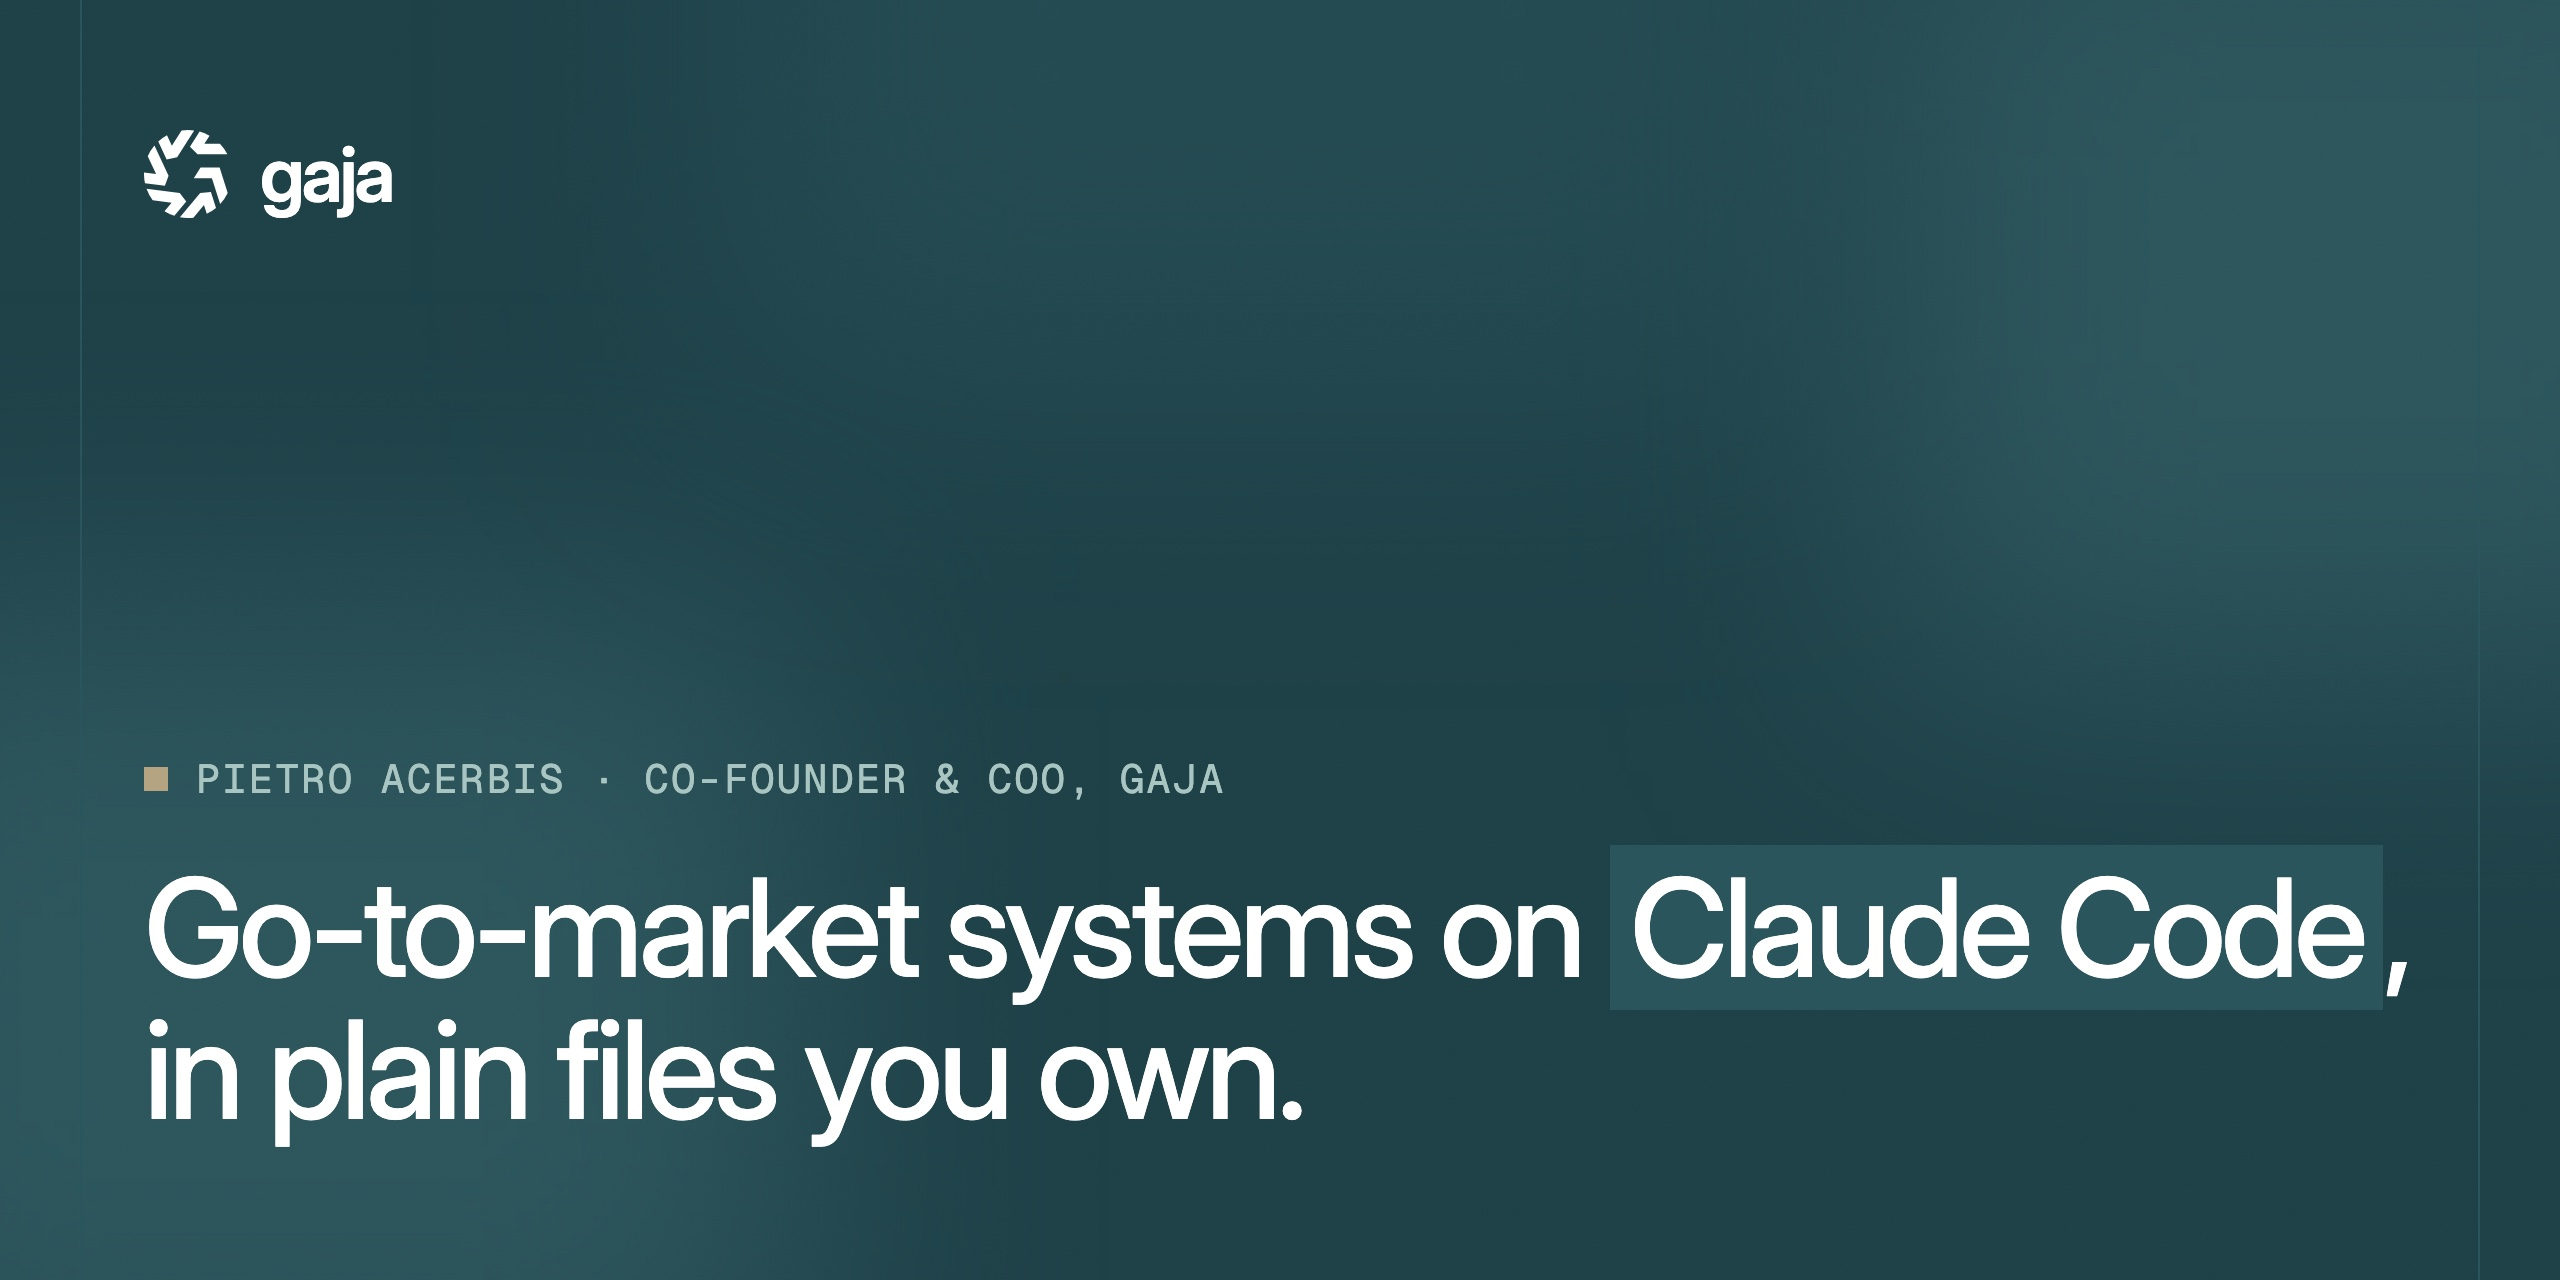
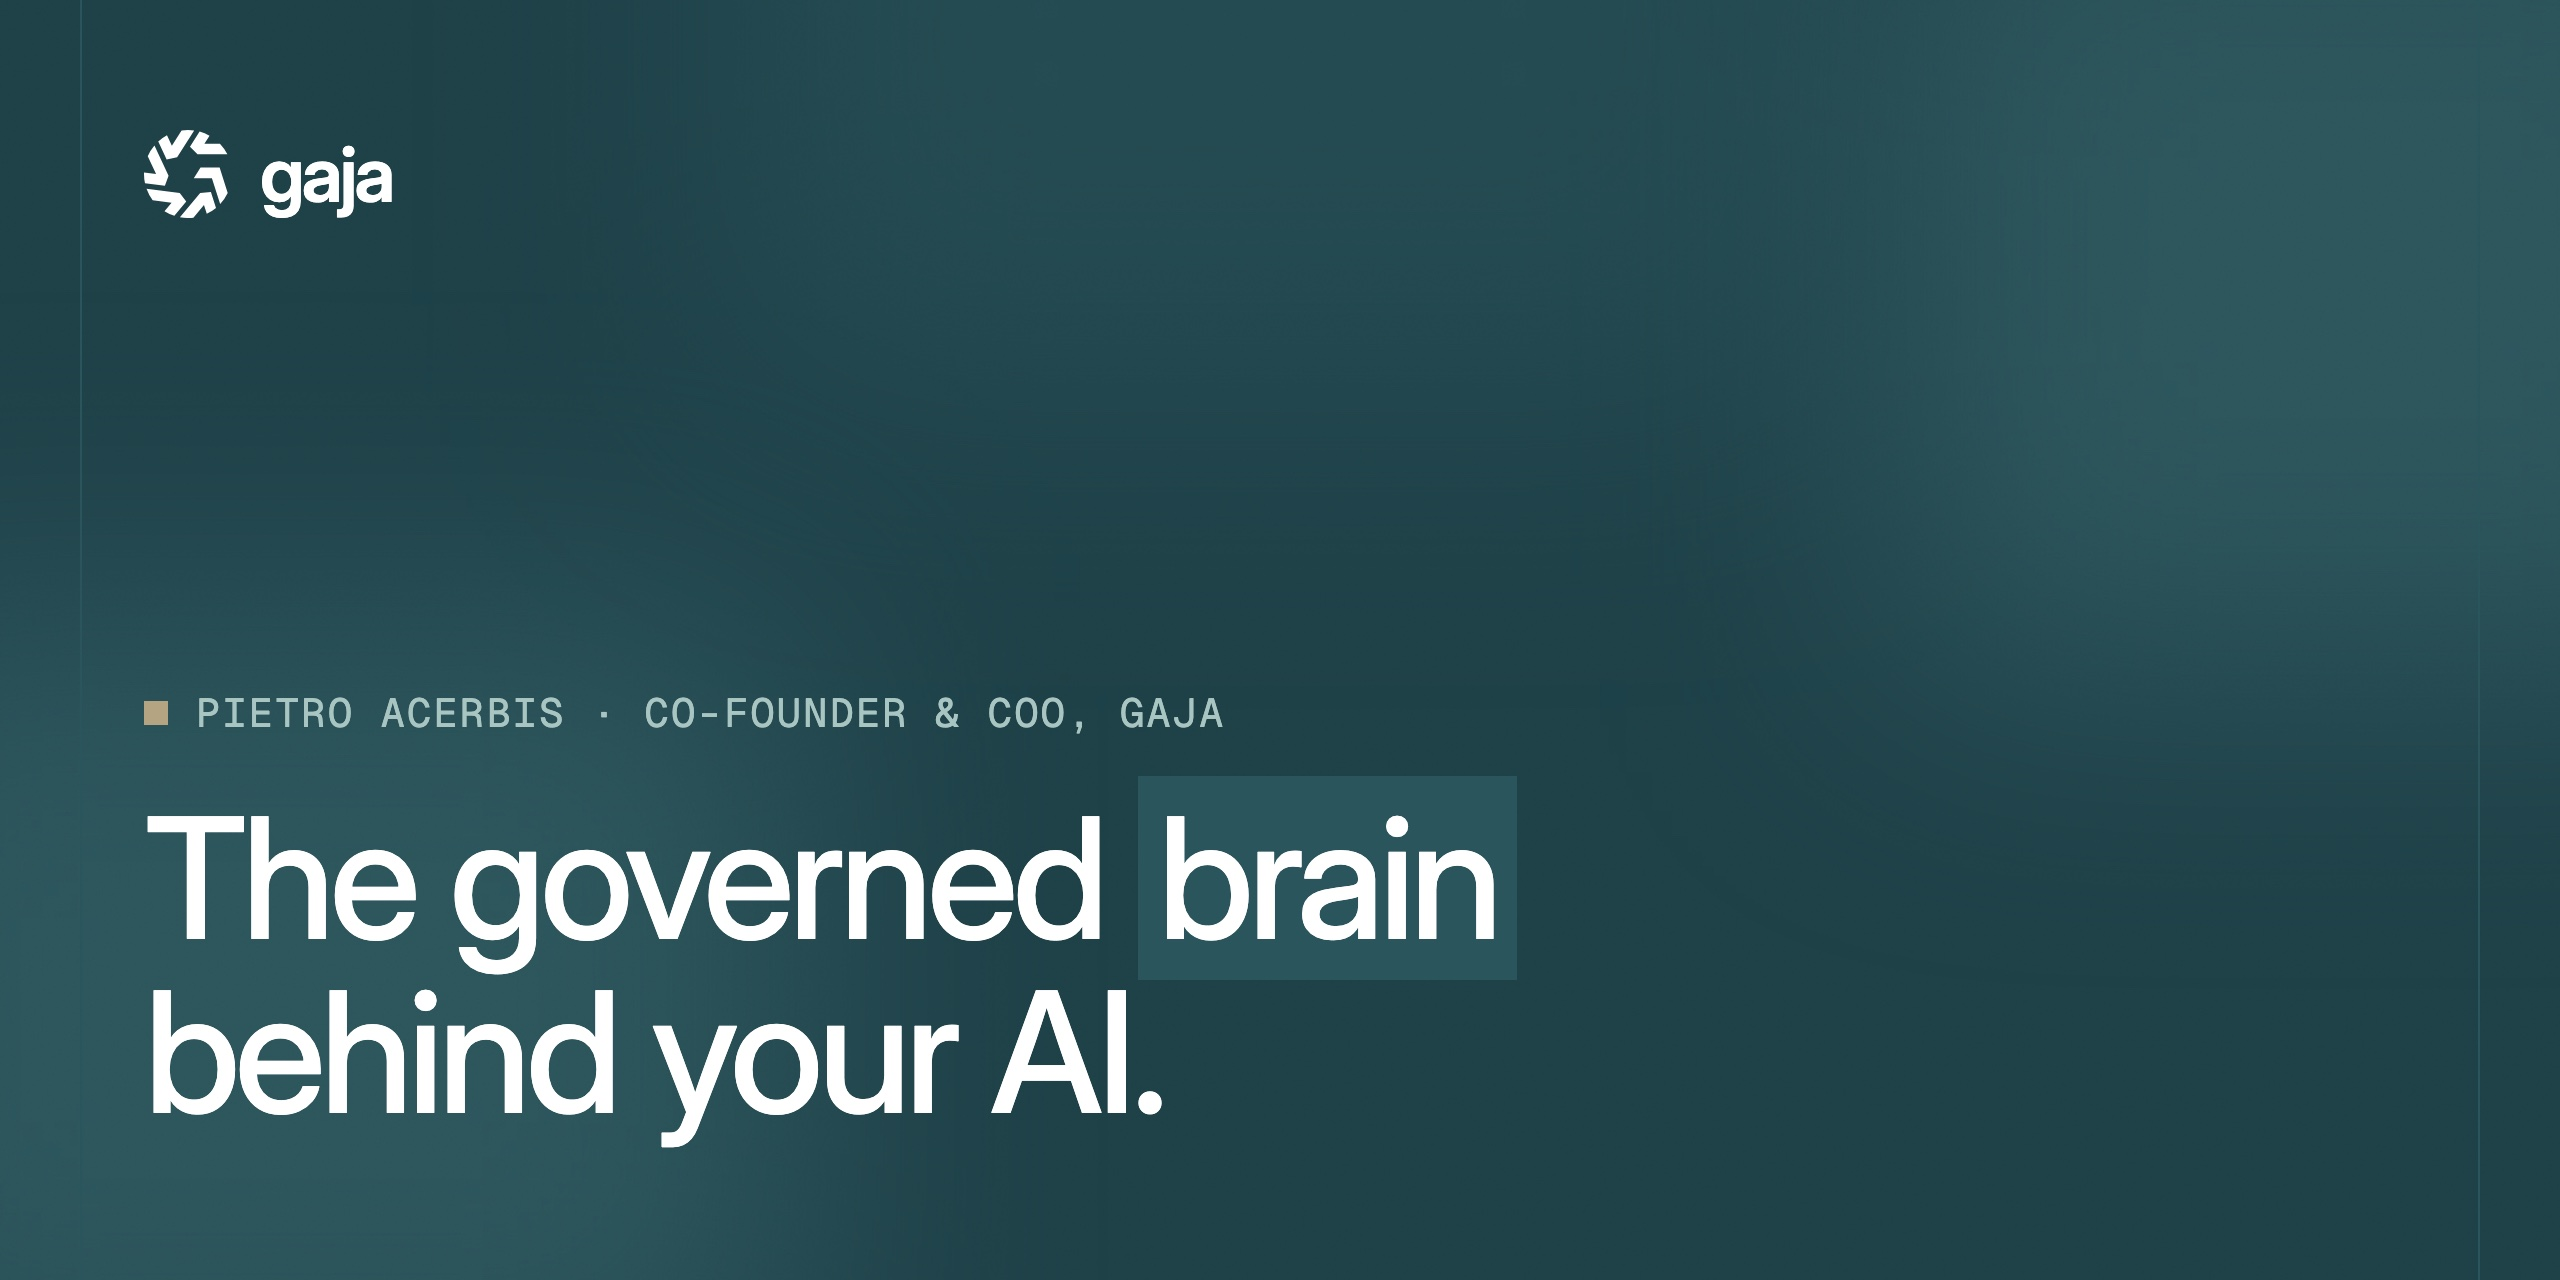
Profile: the intro on context and the brain, the cover on gaja's tagline, the numbers and the dated line out

diff --git a/README.md b/README.md
@@ -1,14 +1,14 @@
-![Pietro Acerbis, co-founder of gaja: go-to-market systems on Claude Code, in plain files you own](.github/cover.jpg)
+![Pietro Acerbis, co-founder and COO of gaja, the governed brain behind your AI](.github/cover.jpg)
 
 # Pietro Acerbis
 
-### Go-to-market systems on Claude Code, in plain files you own.
+### AI is only as good as the context it reads. I build that context.
 
-I build what a go-to-market team runs on Claude Code: the skills, the memory they read, the checks on what they write. What works for us at gaja ends up here, free to copy.
+At [gaja](https://trygaja.com) we build the governed brain behind your AI. A company's context sits across its tools and in people's heads: gaja connects calls, docs, messages and processes into one brain that learns how the company operates, with a source on every fact. The team and its agents work from the same context, and share the same skills.
+
+On GitHub I share what we learn building it: the formats, the skills and the checks we run on our own brain, free to copy.
 
 **Co-founder & COO** @ [gaja](https://trygaja.com) · ex Revolut and LinkedIn sales
-
-`4 free repositories` · `61 anti-slop patterns` · `24 tools I run every day`
 
 ## Start here
 
@@ -17,12 +17,8 @@ I build what a go-to-market team runs on Claude Code: the skills, the memory the
 - **[claude-code-daily](https://github.com/pietroacerbis/claude-code-daily)**: the Claude Code tools I use every day, by category, with the install lines and what each costs on every message.
 - **[claude-antislop](https://github.com/pietroacerbis/claude-antislop)**: keeps the tells of AI writing out of what Claude writes. 61 patterns in English and Italian, hooks on every file and reply, and a skill that rewrites a draft until it is clean.
 
-## What gaja does
-
-The governed brain behind your AI. gaja connects your stack into one brain that learns how your company operates: meeting notes, docs, messages, people knowledge and processes become memory your teams and agents can rely on.
-
 ## Where I post
 
 LinkedIn [in/pietroacerbis-gaja](https://www.linkedin.com/in/pietroacerbis-gaja/) · gaja on [LinkedIn](https://www.linkedin.com/company/gaja-brain/) · [trygaja.com](https://trygaja.com) · pietro@trygaja.com
 
-_currently: building gaja. The next free kit, on account tiering, comes out on 2026-12-03._
+_currently: building gaja._
